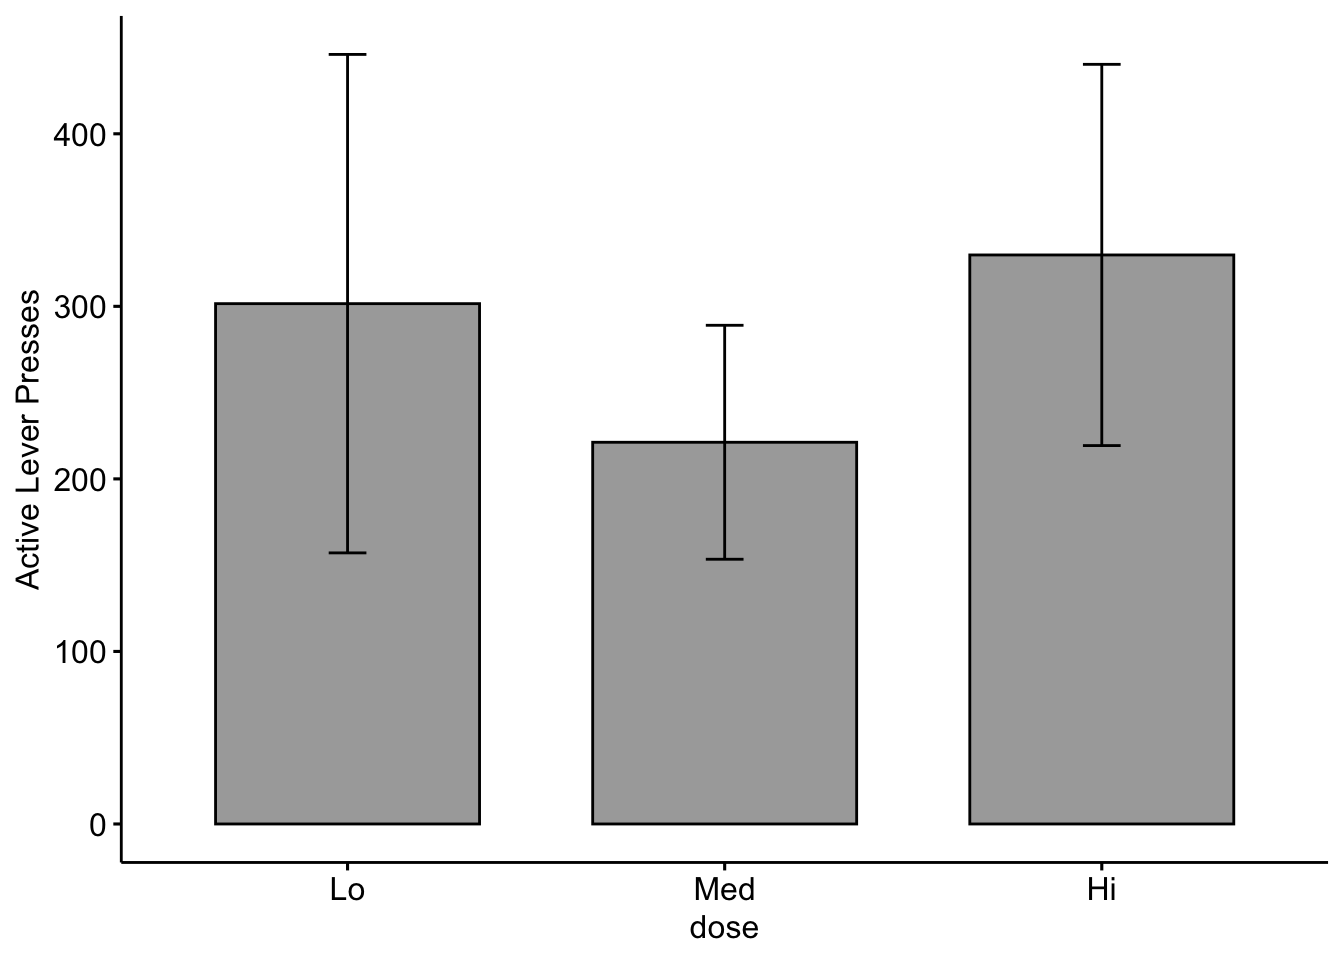
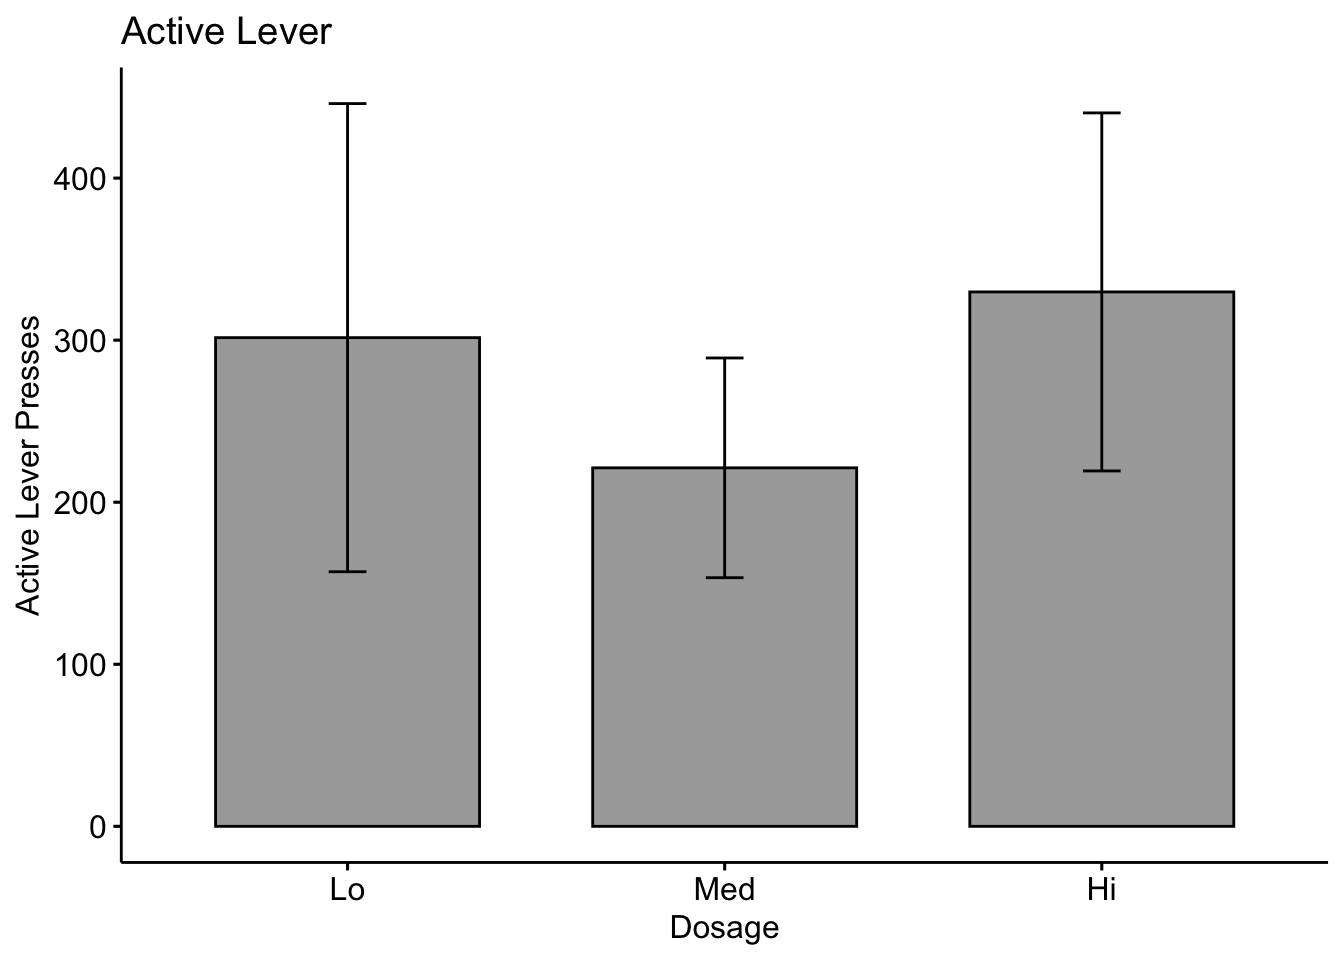
Touched up portfolio 2

diff --git a/docs/p02.html b/docs/p02.html
@@ -339,10 +339,10 @@ HI) along with a control dose of saline vehicle (LO)</p>
 started. First, let’s load the packages and data we’ll need:</p>
 <pre class="r"><code>library(tidyverse)</code></pre>
 <pre><code>## ── Attaching packages ─────────────────────────────────────── tidyverse 1.3.2 ──
-## ✔ ggplot2 3.4.0      ✔ purrr   1.0.1 
-## ✔ tibble  3.1.8      ✔ dplyr   1.0.10
-## ✔ tidyr   1.3.0      ✔ stringr 1.5.0 
-## ✔ readr   2.1.3      ✔ forcats 0.5.2 
+## ✔ ggplot2 3.4.0     ✔ purrr   1.0.1
+## ✔ tibble  3.2.1     ✔ dplyr   1.1.2
+## ✔ tidyr   1.3.0     ✔ stringr 1.5.0
+## ✔ readr   2.1.3     ✔ forcats 0.5.2
 ## ── Conflicts ────────────────────────────────────────── tidyverse_conflicts() ──
 ## ✖ dplyr::filter() masks stats::filter()
 ## ✖ dplyr::lag()    masks stats::lag()</code></pre>
@@ -417,13 +417,17 @@ presses:</p>
 ## 1   dose   2  16 0.655 0.533       0.021</code></pre>
 <p>So overall it looks like there wasn’t a significant effect of drug
 dose on active lever presses. Adding a visualization might help us to
-get a better idea of what’s going on:</p>
+get a better idea of what’s going on. Note that I’m intentionally using
+a plainer aesthetic for this project, since these will probably go right
+into the paper itself:</p>
 <pre class="r"><code>active_long %&gt;%
   ggbarplot(x = &quot;dose&quot;,
             y = &quot;value&quot;,
             add = c(&quot;mean_se&quot;),
             fill = &quot;darkgrey&quot;,
-            ylab = &quot;Active Lever Presses&quot;)</code></pre>
+            ylab = &quot;Active Lever Presses&quot;,
+            xlab = &quot;Dosage&quot;,
+            title = &quot;Active Lever&quot;)</code></pre>
 <p><img src="p02_files/figure-html/active-viz-1.png" width="672" /></p>
 <p>As we can see, there’s some pretty significant overlap in the error
 bars, which here represent standard errors.</p>
@@ -435,14 +439,18 @@ those two dependent variables as well:</p>
             y = &quot;value&quot;,
             add = c(&quot;mean_se&quot;),
             fill = &quot;darkgrey&quot;,
-            ylab = &quot;Reinforcers&quot;)</code></pre>
+            ylab = &quot;Reinforcers Earned&quot;,
+            xlab = &quot;Dosage&quot;,
+            title = &quot;Reinforcers&quot;)</code></pre>
 <p><img src="p02_files/figure-html/breakpoint-reinforcer-viz-1.png" width="672" /></p>
 <pre class="r"><code>breakpoint_long %&gt;%
   ggbarplot(x = &quot;dose&quot;,
             y = &quot;value&quot;,
             add = c(&quot;mean_se&quot;),
             fill = &quot;darkgrey&quot;,
-            ylab = &quot;Breakpoint&quot;)</code></pre>
+            ylab = &quot;Breakpoint&quot;,
+            xlab = &quot;Dosage&quot;,
+            title = &quot;Breakpoint&quot;)</code></pre>
 <p><img src="p02_files/figure-html/breakpoint-reinforcer-viz-2.png" width="672" /></p>
 <p>And these results aren’t significant either:</p>
 <pre class="r"><code>get_anova_table(reinforcers_results)</code></pre>
@@ -482,7 +490,9 @@ data clears things up:</p>
             y = &quot;value&quot;,
             add = c(&quot;mean_se&quot;),
             fill = &quot;darkgrey&quot;,
-            ylab = &quot;Inactive Lever Presses&quot;)</code></pre>
+            ylab = &quot;Inactive Lever Presses&quot;,
+            xlab = &quot;Dosage&quot;,
+            title = &quot;Inactive Lever&quot;)</code></pre>
 <p><img src="p02_files/figure-html/inactive-viz-1.png" width="672" /></p>
 <p>Based on this, if I had to guess I’d probably say the comparison
 between the LO and HI groups is what the ANOVA picked up on. In any case
